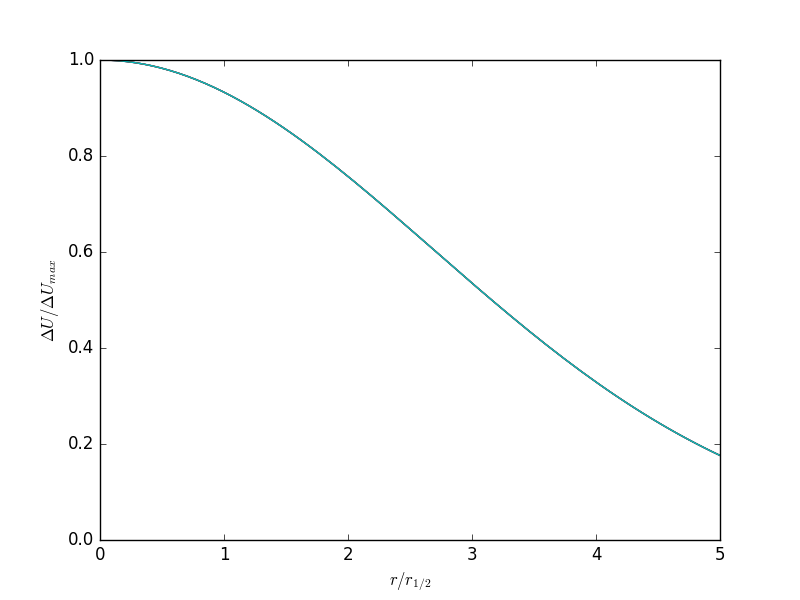
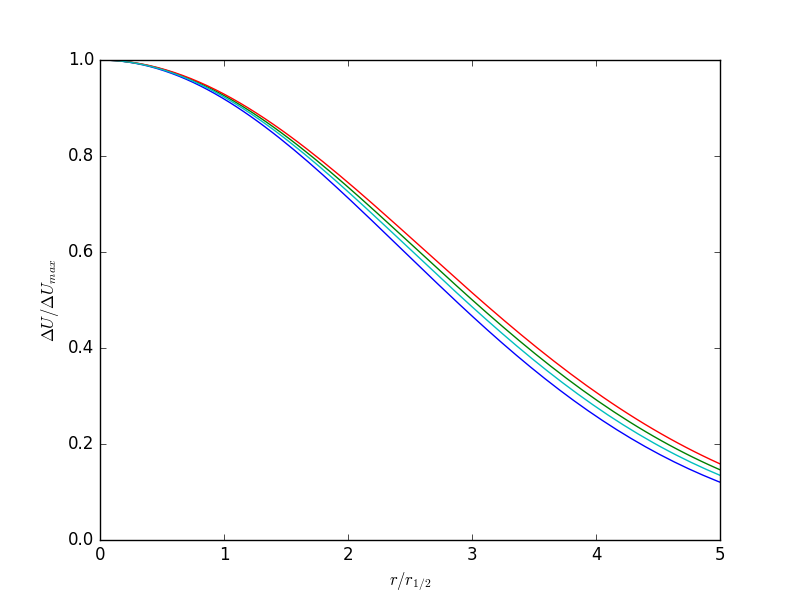
Arrgle problemas de indexacion en /viejo/gaussiana

Changed region(s): [[0.2188, 0.12, 0.9062, 0.81], [0.1562, 0.09, 0.2188, 0.12]]

diff --git a/src/viejo/gaussiana_1.py b/src/viejo/gaussiana_1.py
@@ -90,7 +90,7 @@ exponente = np.zeros((len(x_n),len(r_cuadrado)))
 gaussiana = np.zeros((len(x_n),len(r_cuadrado)))
 deficit_dividido_U_inf = np.zeros((len(x_n),len(r_cuadrado)))
 
-for i in range x_n:
+for i in range (0,len(x_n)):
 	for j in range (0,len(r_cuadrado)):
 		exponente[i,j] = -r_cuadrado[j] / (2 * sigma_n_cuadrado[i])
 		gaussiana[i,j] = exp(exponente[i,j])
@@ -111,12 +111,12 @@ for i in range x_n:
 # grafico la gaussiana en funcion de r
 
 fin = np.arange(0,len(r_cuadrado))
-y = np.zeros((len(x_n),len(r_cuadrado)))
+#y = np.zeros((len(x_n),len(r_cuadrado)))
 
 # simil figura 3 del paper:
 
-for i in range(0,len(x_n)):
-	y[i] = gaussiana[x_n[i],fin]
+#for i in range(0,len(x_n)):
+#	y[i] = gaussiana[x_n[i],fin]
 
 #	plt.ylim([0,1])
 #	plt.xlabel('r')
@@ -140,10 +140,10 @@ plt.ylim([0,1])
 plt.xlim([0,1])
 plt.xlabel('r')
 plt.ylabel(r'$\Delta U / \Delta U_{max} $')
-plt.plot(r,y[x_n_0])
-plt.plot(r,y[x_n_1])
-plt.plot(r,y[x_n_2])
-plt.plot(r,y[x_n_3])
+plt.plot(r,gaussiana[x_n_0,fin])
+plt.plot(r,gaussiana[x_n_1,fin])
+plt.plot(r,gaussiana[x_n_2,fin])
+plt.plot(r,gaussiana[x_n_3,fin])
 plt.show()
 #fig.savefig('figura_3_gaussiana.png')
 
@@ -161,12 +161,12 @@ for i in range (0,len(x_n)):
         cociente_r_r_medio[i,j] = r[j]/r_medio[i]
 
 fin = np.arange(0,len(r_cuadrado))
-z = np.zeros((len(x_n),len(r_cuadrado)))
+#z = np.zeros((len(x_n),len(r_cuadrado)))
 
 # figura 3 del paper:
 
-for i in range(0,len(x_n)):
-	z[i] = cociente_r_r_medio[x_n[i],fin]
+#for i in range(0,len(x_n)):
+#	z[i] = cociente_r_r_medio[x_n[i],fin]
 
 
 fig = plt.figure()
@@ -174,10 +174,10 @@ plt.ylim([0,1])
 plt.xlim([0,5])
 plt.xlabel(r'$r / r_{1/2}$')
 plt.ylabel(r'$\Delta U / \Delta U_{max} $')
-plt.plot(z[x_n_0],y[x_n_0])
-plt.plot(z[x_n_1],y[x_n_1])
-plt.plot(z[x_n_2],y[x_n_2])
-plt.plot(z[x_n_3],y[x_n_3])
+plt.plot(cociente_r_r_medio[x_n_0,fin],gaussiana[x_n_0,fin])
+plt.plot(cociente_r_r_medio[x_n_1,fin],gaussiana[x_n_1,fin])
+plt.plot(cociente_r_r_medio[x_n_2,fin],gaussiana[x_n_2,fin])
+plt.plot(cociente_r_r_medio[x_n_3,fin],gaussiana[x_n_3,fin])
 plt.show()
 fig.savefig('figuras/gaussiana.png')
 
